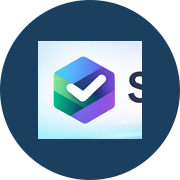
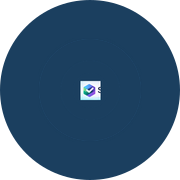
fix(web): replace wrong horizontal lockup with canonical Settler brand assets
- Remove mistaken Settler-logo.png that showed stock MELHENA wordmark
- Generate horizontal lockup from official wordmark + circular mark; update favicons/OG
- Centralize paths in lib/brand/assets.ts and docs/brand/asset-map.md
- Add dark-mode invert on brand rasters; align apple-touch-icon with metadata
- Add brand contract unit test and update Playwright logo assertion

diff --git a/packages/web/src/lib/images/image-config.ts b/packages/web/src/lib/images/image-config.ts
@@ -23,8 +23,8 @@ export interface ImageConfig {
 /**
  * Settler brand images configuration
  *
- * Canonical horizontal lockup: /public/assets/images/Settler-logo.png
- * Derived circular mark + wordmark: regenerate with `node ./scripts/generate-brand-assets.mjs`
+ * Canonical rasters live under /public/brand/settler/; regenerate with
+ * `pnpm run generate:brand-assets` (packages/web). See docs/brand/asset-map.md.
  */
 const SETTLER_IMAGES_CONFIG = {
   favicon: {
@@ -95,40 +95,40 @@ const SETTLER_IMAGES_CONFIG = {
   },
 
   logoMain: {
-    path: "/assets/images/Settler-logo.png",
-    width: 1303,
+    path: "/brand/settler/settler-lockup-horizontal-light.png",
+    width: 1282,
     height: 339,
     alt: "Settler.dev",
     category: "logo" as const,
     mimeType: "image/png",
-    webpPath: "/assets/images/Settler-logo.webp",
+    webpPath: "/brand/settler/settler-lockup-horizontal-light.webp",
   },
   logoHorizontalLight: {
-    path: "/assets/images/Settler-logo.png",
-    width: 1303,
+    path: "/brand/settler/settler-lockup-horizontal-light.png",
+    width: 1282,
     height: 339,
     alt: "Settler.dev",
     category: "logo" as const,
     mimeType: "image/png",
-    webpPath: "/assets/images/Settler-logo.webp",
+    webpPath: "/brand/settler/settler-lockup-horizontal-light.webp",
   },
   logoHorizontalDark: {
-    path: "/assets/images/Settler-logo.png",
-    width: 1303,
+    path: "/brand/settler/settler-lockup-horizontal-light.png",
+    width: 1282,
     height: 339,
     alt: "Settler.dev",
     category: "logo" as const,
     mimeType: "image/png",
-    webpPath: "/assets/images/Settler-logo.webp",
+    webpPath: "/brand/settler/settler-lockup-horizontal-light.webp",
   },
   logoStackedLight: {
-    path: "/assets/images/Settler-logo.png",
-    width: 1303,
+    path: "/brand/settler/settler-lockup-horizontal-light.png",
+    width: 1282,
     height: 339,
     alt: "Settler.dev",
     category: "logo" as const,
     mimeType: "image/png",
-    webpPath: "/assets/images/Settler-logo.webp",
+    webpPath: "/brand/settler/settler-lockup-horizontal-light.webp",
   },
   logoSquareLight: {
     path: "/brand/settler/favicon-192x192.png",

diff --git a/scripts/convert-images-to-webp.ts b/scripts/convert-images-to-webp.ts
@@ -2,32 +2,37 @@ import sharp from "sharp";
 import { promises as fs } from "fs";
 import path from "path";
 
-const imagesDir = path.join(__dirname, "../packages/web/public/assets/images");
+const publicRoot = path.join(__dirname, "../packages/web/public");
 const imagesToConvert = [
-  { input: "Settler-logo.png", output: "Settler-logo.webp" },
-  { input: "Settler_seo.png", output: "Settler_seo.webp" },
-  { input: "settler-favicon.png", output: "settler-favicon.webp" },
+  {
+    input: "brand/settler/settler-lockup-horizontal-light.png",
+    output: "brand/settler/settler-lockup-horizontal-light.webp",
+  },
+  {
+    input: "assets/images/Settler_seo.png",
+    output: "assets/images/Settler_seo.webp",
+  },
+  {
+    input: "assets/images/settler-favicon.png",
+    output: "assets/images/settler-favicon.webp",
+  },
 ];
 
 async function convertToWebP() {
   console.log("Converting PNG images to WebP...\n");
 
   for (const { input, output } of imagesToConvert) {
-    const inputPath = path.join(imagesDir, input);
-    const outputPath = path.join(imagesDir, output);
+    const inputPath = path.join(publicRoot, input);
+    const outputPath = path.join(publicRoot, output);
 
     try {
-      // Check if input file exists
       await fs.access(inputPath);
 
-      // Get image metadata
       const metadata = await sharp(inputPath).metadata();
       console.log(`Converting ${input} (${metadata.width}x${metadata.height})...`);
 
-      // Convert to WebP with high quality
       await sharp(inputPath).webp({ quality: 90, effort: 6 }).toFile(outputPath);
 
-      // Get output file size
       const stats = await fs.stat(outputPath);
       const inputStats = await fs.stat(inputPath);
       const savings = ((1 - stats.size / inputStats.size) * 100).toFixed(1);

diff --git a/packages/web/src/components/PwaInstallPrompt.tsx b/packages/web/src/components/PwaInstallPrompt.tsx
@@ -1,9 +1,11 @@
 "use client";
 
 import { useState, useEffect } from "react";
+import Image from "next/image";
 import { X, Download } from "lucide-react";
 import { Button } from "@/components/ui/button";
 import { AnimatePresence, motion } from "framer-motion";
+import { SETTLER_BRAND } from "@/lib/brand/assets";
 
 export function PwaInstallPrompt() {
   const [deferredPrompt, setDeferredPrompt] = useState<any>(null);
@@ -53,11 +55,21 @@ export function PwaInstallPrompt() {
         role="alertdialog"
         aria-labelledby="install-title"
       >
-        <div className="flex-1 mr-4">
+        <div className="flex-1 mr-4 flex items-start gap-3">
+          <Image
+            src={SETTLER_BRAND.markCircularLight.src}
+            width={SETTLER_BRAND.markCircularLight.width}
+            height={SETTLER_BRAND.markCircularLight.height}
+            alt=""
+            className="h-9 w-9 shrink-0 rounded-lg"
+            sizes="36px"
+          />
+          <div>
           <h3 id="install-title" className="font-semibold text-sm mb-1">
             Install Settler
           </h3>
           <p className="text-xs text-slate-300">Add to your home screen for the best experience.</p>
+          </div>
         </div>
         <div className="flex items-center gap-2">
           <Button

diff --git a/packages/web/src/components/brand/brand-assets.ts b/packages/web/src/components/brand/brand-assets.ts
@@ -1,21 +1,24 @@
 /**
- * Intrinsic dimensions for canonical brand raster assets under /public.
- * Regenerate binaries with: `node ./scripts/generate-brand-assets.mjs`
+ * Intrinsic dimensions for canonical brand rasters under /public/brand/settler.
+ * Regenerate with: `pnpm run generate:brand-assets` (from packages/web).
  */
+import { SETTLER_BRAND } from "@/lib/brand/assets";
+
 export const BRAND_LOCKUP_PNG = {
-  src: "/assets/images/Settler-logo.png",
-  width: 1303,
-  height: 339,
+  src: SETTLER_BRAND.lockupHorizontalLight.src,
+  width: SETTLER_BRAND.lockupHorizontalLight.width,
+  height: SETTLER_BRAND.lockupHorizontalLight.height,
+  webpSrc: SETTLER_BRAND.lockupHorizontalLight.webpSrc,
 } as const;
 
 export const BRAND_WORDMARK_PNG = {
-  src: "/brand/settler/wordmark.png",
-  width: 903,
-  height: 339,
+  src: SETTLER_BRAND.wordmarkLight.src,
+  width: SETTLER_BRAND.wordmarkLight.width,
+  height: SETTLER_BRAND.wordmarkLight.height,
 } as const;
 
 export const BRAND_MARK_PNG = {
-  src: "/brand/settler/favicon-192x192.png",
-  width: 192,
-  height: 192,
+  src: SETTLER_BRAND.markCircularLight.src,
+  width: SETTLER_BRAND.markCircularLight.width,
+  height: SETTLER_BRAND.markCircularLight.height,
 } as const;

diff --git a/packages/web/src/lib/brand/assets.ts b/packages/web/src/lib/brand/assets.ts
@@ -1,0 +1,37 @@
+/**
+ * Canonical Settler.dev brand rasters — single import surface for dimensions + paths.
+ * Regenerate derived files: `pnpm run generate:brand-assets` (from packages/web).
+ *
+ * Full inventory: docs/brand/asset-map.md
+ */
+export const SETTLER_BRAND = {
+  /** Horizontal lockup (mark + wordmark), light surfaces — nav, footer, marketing */
+  lockupHorizontalLight: {
+    src: "/brand/settler/settler-lockup-horizontal-light.png",
+    webpSrc: "/brand/settler/settler-lockup-horizontal-light.webp",
+    width: 1282,
+    height: 339,
+    alt: "Settler.dev",
+  },
+  /** Wordmark only — narrow placements, stacked lockup text row */
+  wordmarkLight: {
+    src: "/brand/settler/wordmark.png",
+    width: 903,
+    height: 339,
+    alt: "Settler.dev",
+  },
+  /** Circular mark on brand navy — compact nav, stacked mark, favicon pipeline source */
+  markCircularLight: {
+    src: "/brand/settler/favicon-192x192.png",
+    width: 192,
+    height: 192,
+    alt: "",
+  },
+  /** 1:1 square — same circular mark at 512 (maskable / launcher) */
+  squareStackedLight: {
+    src: "/brand/settler/favicon-512x512.png",
+    width: 512,
+    height: 512,
+    alt: "Settler.dev",
+  },
+} as const;

diff --git a/packages/web/src/lib/brand/__tests__/assets.test.ts b/packages/web/src/lib/brand/__tests__/assets.test.ts
@@ -1,0 +1,20 @@
+import { SETTLER_BRAND } from "../assets";
+import { SETTLER_IMAGES } from "@/lib/images/image-config";
+
+describe("canonical brand assets", () => {
+  it("horizontal lockup points at generated brand folder files", () => {
+    expect(SETTLER_BRAND.lockupHorizontalLight.src).toBe(
+      "/brand/settler/settler-lockup-horizontal-light.png"
+    );
+    expect(SETTLER_BRAND.lockupHorizontalLight.webpSrc).toBe(
+      "/brand/settler/settler-lockup-horizontal-light.webp"
+    );
+    expect(SETTLER_IMAGES.logoMain.path).toBe(SETTLER_BRAND.lockupHorizontalLight.src);
+    expect(SETTLER_IMAGES.logoMain.webpPath).toBe(SETTLER_BRAND.lockupHorizontalLight.webpSrc);
+  });
+
+  it("does not reference removed wrong horizontal asset path", () => {
+    expect(SETTLER_BRAND.lockupHorizontalLight.src).not.toContain("Settler-logo");
+    expect(JSON.stringify(SETTLER_IMAGES)).not.toContain("Settler-logo");
+  });
+});

diff --git a/packages/web/src/app/layout.tsx b/packages/web/src/app/layout.tsx
@@ -16,6 +16,7 @@ import { GlobalClientShell } from "@/components/GlobalClientShell";
 
 export const metadata: Metadata = {
   metadataBase: new URL(process.env.NEXT_PUBLIC_SITE_URL || "https://settler.dev"),
+  applicationName: "Settler.dev",
   title: {
     default: "Settler.dev — Deterministic Reconciliation",
     template: "%s | Settler",
@@ -139,7 +140,7 @@ export default function RootLayout({ children }: { children: React.ReactNode }) 
   return (
     <html lang="en" suppressHydrationWarning>
       <head>
-        <link rel="apple-touch-icon" href="/brand/settler/favicon-192x192.png" />
+        <link rel="apple-touch-icon" href={SETTLER_IMAGES.appleTouchIcon.path} />
         <link rel="manifest" href="/manifest.json" />
         <meta name="mobile-web-app-capable" content="yes" />
         <meta name="apple-mobile-web-app-capable" content="yes" />

diff --git a/packages/web/src/components/brand/BrandMark.tsx b/packages/web/src/components/brand/BrandMark.tsx
@@ -1,4 +1,5 @@
 import Image, { type ImageProps } from "next/image";
+import { cn } from "@/lib/utils";
 import { BRAND_MARK_PNG } from "./brand-assets";
 
 export type BrandMarkProps = Omit<ImageProps, "src" | "width" | "height" | "alt"> & {
@@ -13,7 +14,7 @@ export function BrandMark({ alt = "", className, sizes = "64px", ...rest }: Bran
       width={BRAND_MARK_PNG.width}
       height={BRAND_MARK_PNG.height}
       alt={alt}
-      className={className}
+      className={cn("dark:invert", className)}
       sizes={sizes}
       {...rest}
     />

diff --git a/tests/ui/landing.spec.ts b/tests/ui/landing.spec.ts
@@ -225,8 +225,8 @@ test.describe("Landing page reality pass", () => {
   test("logo renders in dark mode", async ({ page }) => {
     await page.goto("/");
 
-    // Logo should render in light mode
-    const logo = page.locator('img[src="/assets/images/Settler-logo.png"]').first();
+    // Logo should render in light mode (Next/Image may optimize URL; assert alt + visibility)
+    const logo = page.getByRole("img", { name: "Settler.dev" }).first();
     await expect(logo).toBeVisible();
 
     // Switch to dark mode

diff --git a/packages/web/src/components/brand/BrandWordmark.tsx b/packages/web/src/components/brand/BrandWordmark.tsx
@@ -1,4 +1,5 @@
 import Image, { type ImageProps } from "next/image";
+import { cn } from "@/lib/utils";
 import { BRAND_WORDMARK_PNG } from "./brand-assets";
 
 export type BrandWordmarkProps = Omit<ImageProps, "src" | "width" | "height" | "alt"> & {
@@ -17,7 +18,7 @@ export function BrandWordmark({
       width={BRAND_WORDMARK_PNG.width}
       height={BRAND_WORDMARK_PNG.height}
       alt={alt}
-      className={className}
+      className={cn("dark:invert", className)}
       sizes={sizes}
       {...rest}
     />

diff --git a/packages/web/src/components/brand/BrandLockup.tsx b/packages/web/src/components/brand/BrandLockup.tsx
@@ -56,11 +56,11 @@ export function BrandLockup(props: BrandLockupProps) {
 
   return (
     <Image
-      src={BRAND_LOCKUP_PNG.src}
+      src={BRAND_LOCKUP_PNG.webpSrc ?? BRAND_LOCKUP_PNG.src}
       width={BRAND_LOCKUP_PNG.width}
       height={BRAND_LOCKUP_PNG.height}
       alt={alt}
-      className={className}
+      className={cn("max-h-full w-auto max-w-full object-contain object-left dark:invert", className)}
       priority={priority}
       sizes={sizes}
       {...imageRest}

diff --git a/scripts/generate-icons.js b/scripts/generate-icons.js
@@ -6,7 +6,7 @@
 const fs = require("fs");
 const path = require("path");
 
-// Simple SVG icon template (Settler logo placeholder)
+// Simple SVG icon template (legacy helper — canonical icons ship from generate-brand-assets.mjs)
 const iconSvg = `<?xml version="1.0" encoding="UTF-8"?>
 <svg width="512" height="512" viewBox="0 0 512 512" xmlns="http://www.w3.org/2000/svg">
   <defs>
